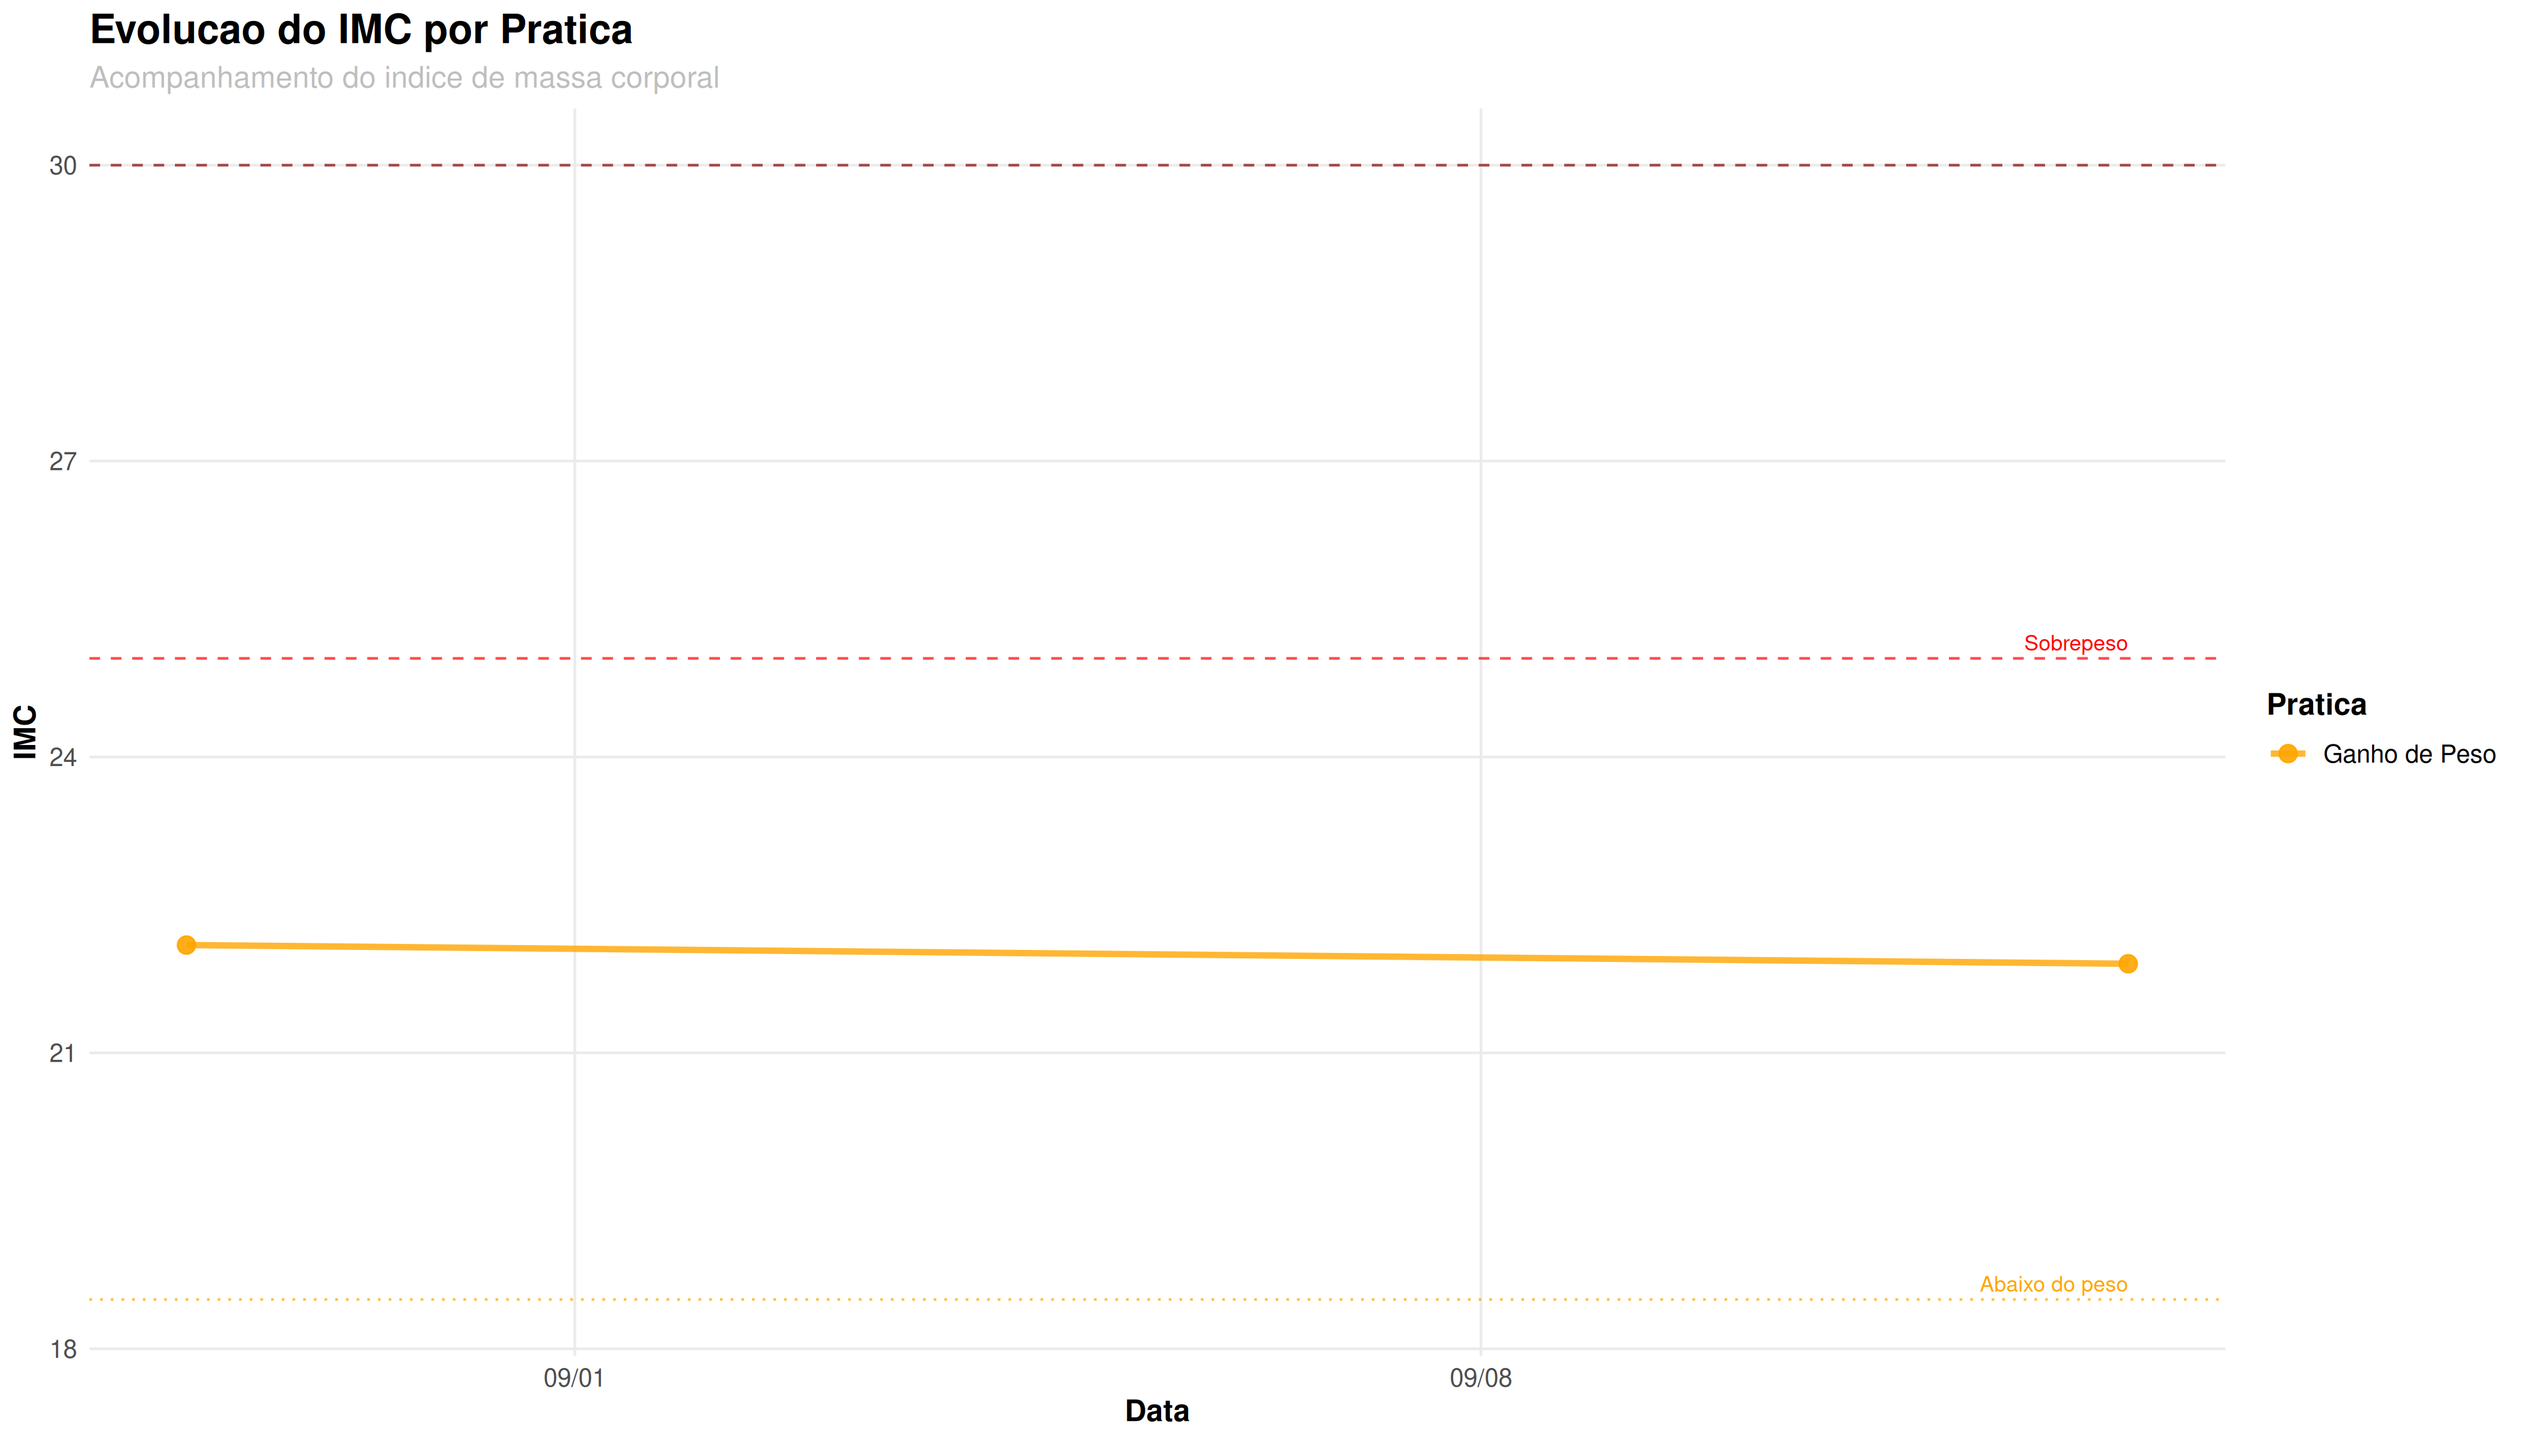
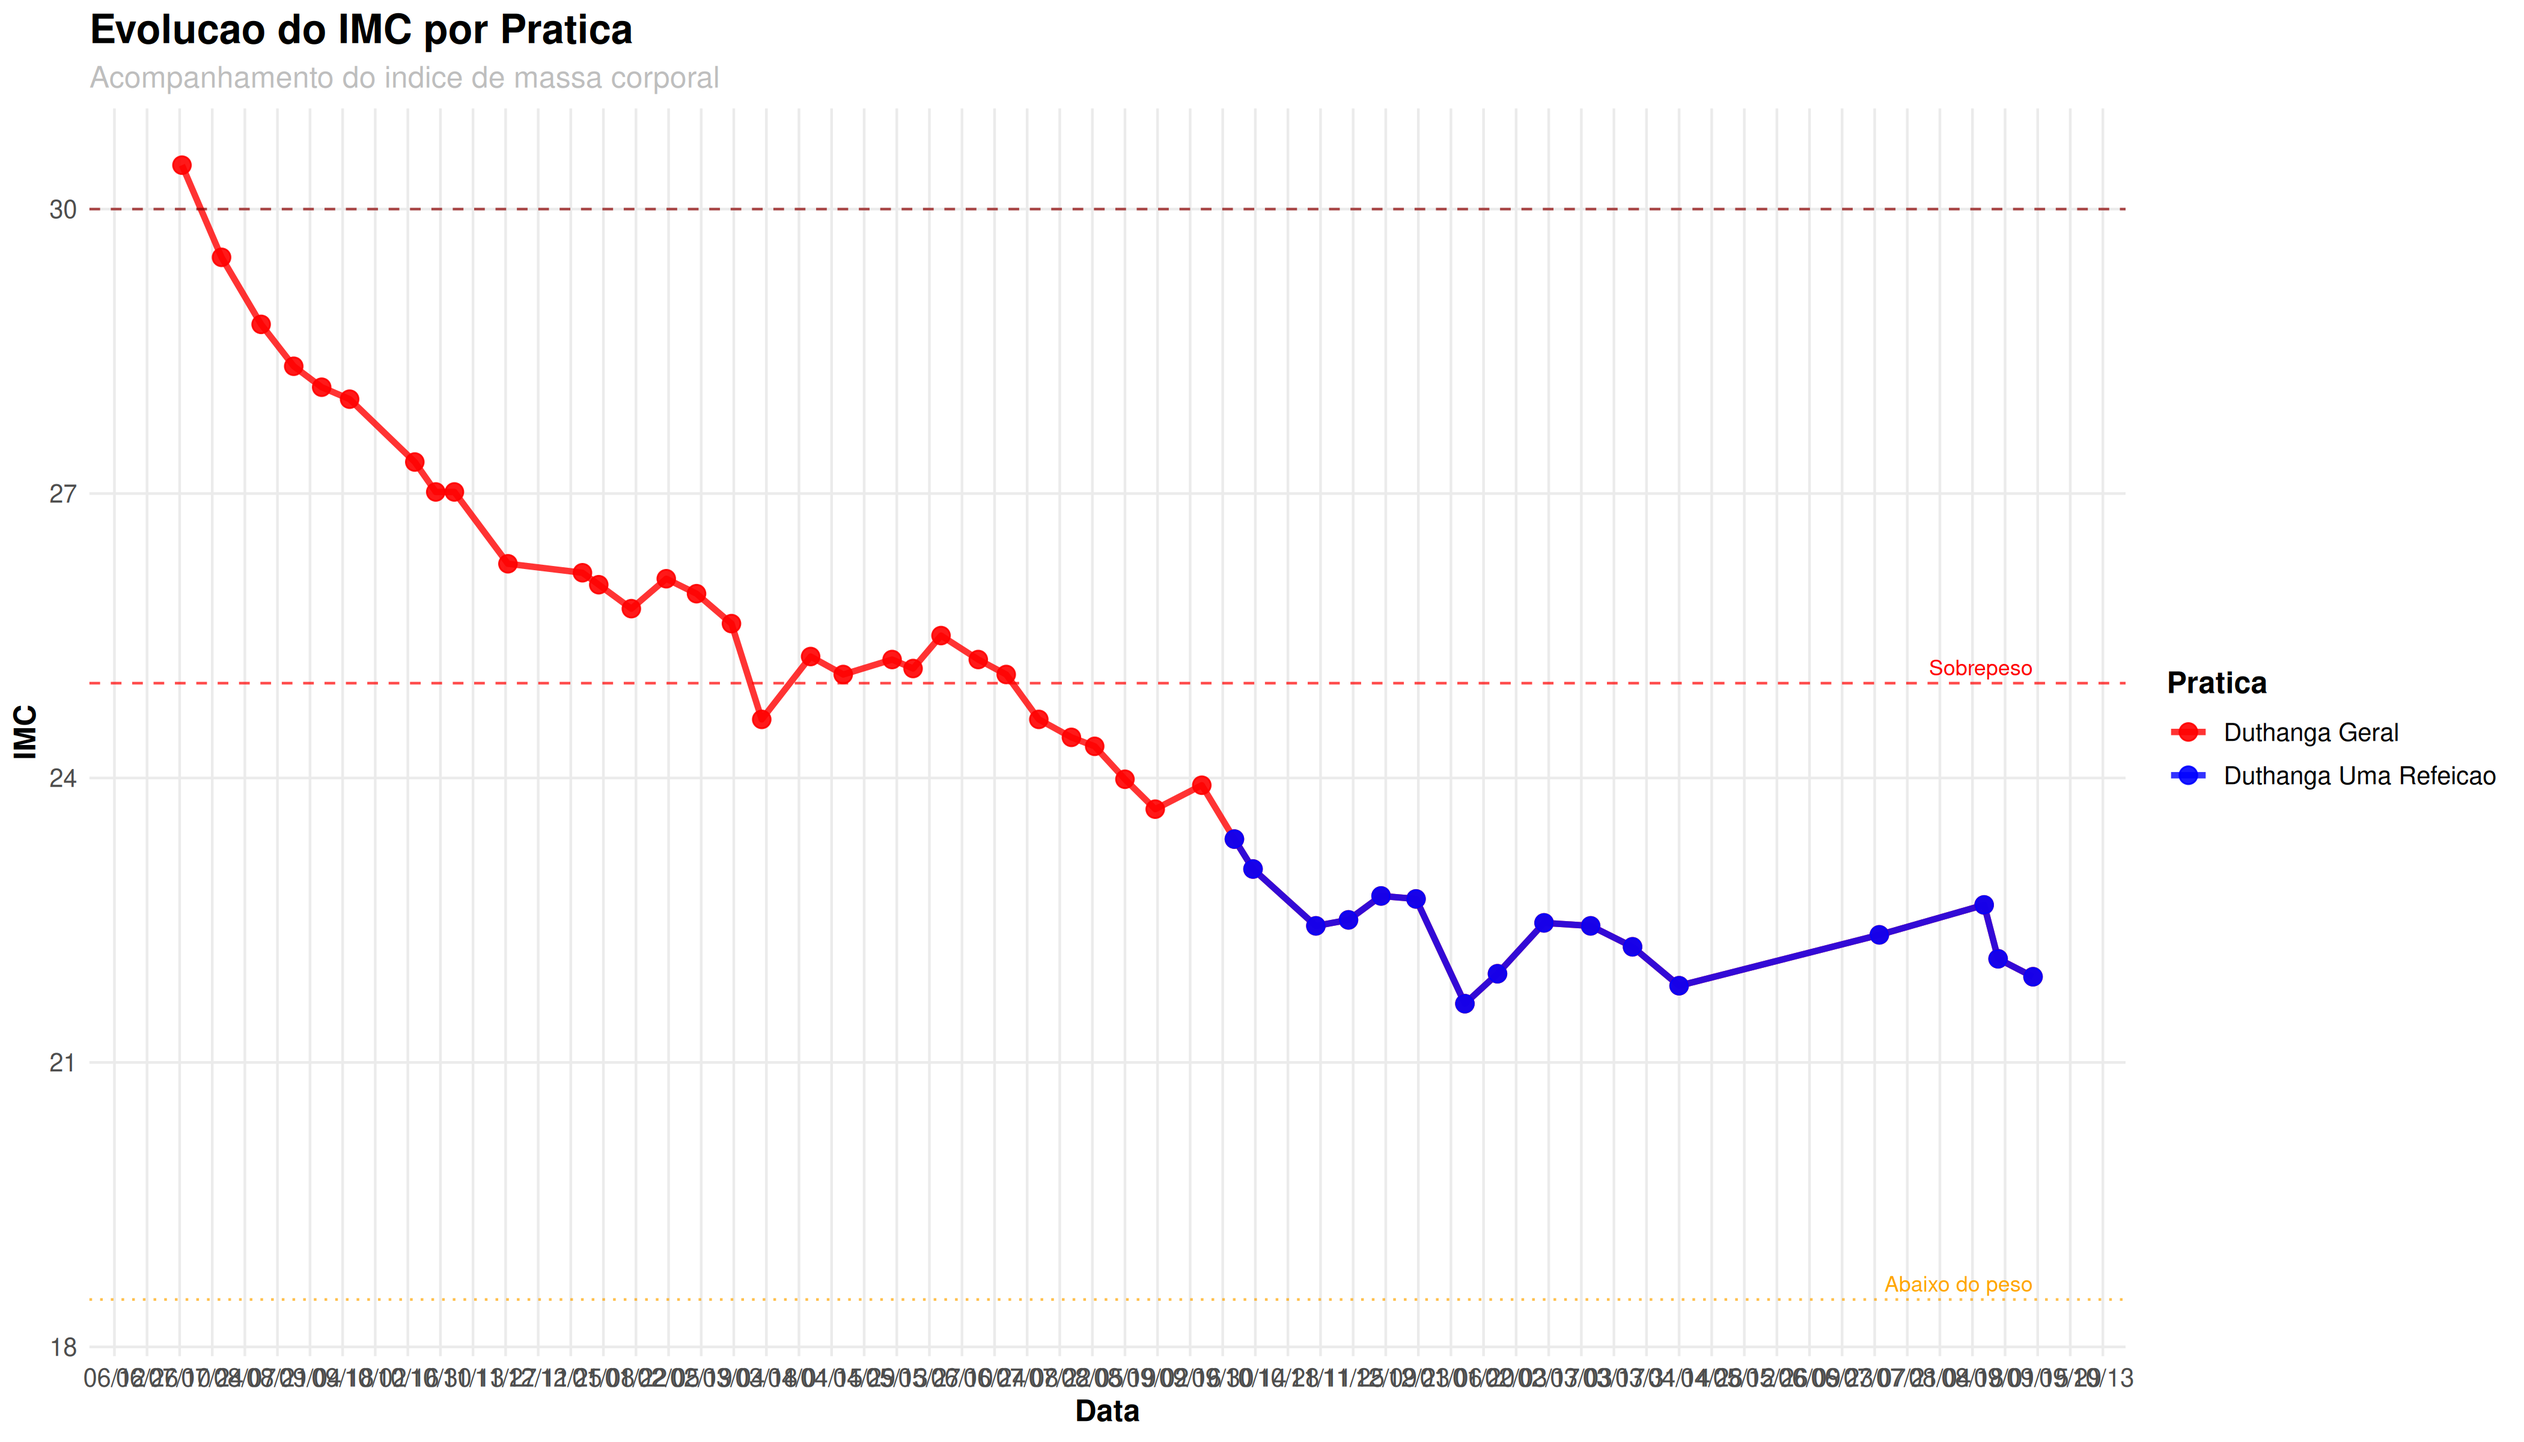
Atualização automática dos gráficos - 2025-09-27 09:17

diff --git a/charts/complete_table.html b/charts/complete_table.html
@@ -1,1 +1,1 @@
-<p class='text-muted'>Nenhum dado disponivel ainda. Dados serao carregados na proxima atualizacao.</p>
+<div class="table-responsive"><table class="table table-striped table-hover" id="complete-data-table"><thead class="table-dark"><tr><th>Data</th><th>Horario</th><th>Peso (kg)</th><th>Braco (cm)</th><th>Cintura (cm)</th><th>Quadril (cm)</th><th>Panturrilha (cm)</th><th>IMC</th><th>Pratica</th></tr></thead><tbody><tr><td>13/09/2025</td><td>-</td><td>69.4</td><td>32.0</td><td>85.0</td><td>92.0</td><td>33.5</td><td>21.9</td><td><span class="badge bg-primary">Duthanga Geral</span></td></tr><tr><td>29/08/2025</td><td>-</td><td>70.0</td><td>31.0</td><td>84.5</td><td>91.0</td><td>33.0</td><td>22.1</td><td><span class="badge bg-primary">Duthanga Geral</span></td></tr><tr><td>23/08/2025</td><td>-</td><td>71.8</td><td>20250530.0</td><td>86.0</td><td>92.0</td><td>33.5</td><td>22.7</td><td><span class="badge bg-primary">Duthanga Geral</span></td></tr><tr><td>09/07/2025</td><td>-</td><td>70.8</td><td>32.5</td><td>85.5</td><td>90.5</td><td>33.0</td><td>22.3</td><td><span class="badge bg-primary">Duthanga Geral</span></td></tr><tr><td>14/04/2025</td><td>-</td><td>69.1</td><td>31.0</td><td>83.0</td><td>91.0</td><td>33.5</td><td>21.8</td><td><span class="badge bg-primary">Duthanga Geral</span></td></tr><tr><td>25/03/2025</td><td>-</td><td>70.4</td><td>32.0</td><td>83.0</td><td>92.0</td><td>33.5</td><td>22.2</td><td><span class="badge bg-primary">Duthanga Geral</span></td></tr><tr><td>07/03/2025</td><td>-</td><td>71.1</td><td>31.0</td><td>84.0</td><td>91.5</td><td>33.5</td><td>22.4</td><td><span class="badge bg-primary">Duthanga Geral</span></td></tr><tr><td>15/02/2025</td><td>-</td><td>71.2</td><td>20250531.0</td><td>85.0</td><td>91.5</td><td>33.5</td><td>22.5</td><td><span class="badge bg-primary">Duthanga Geral</span></td></tr><tr><td>26/01/2025</td><td>-</td><td>69.5</td><td>20250531.0</td><td>84.5</td><td>92.5</td><td>34.0</td><td>21.9</td><td><span class="badge bg-primary">Duthanga Geral</span></td></tr><tr><td>12/01/2025</td><td>-</td><td>68.5</td><td>31.0</td><td>84.5</td><td>92.0</td><td>34.5</td><td>21.6</td><td><span class="badge bg-primary">Duthanga Geral</span></td></tr><tr><td>22/12/2024</td><td>-</td><td>72.0</td><td>20240531.0</td><td>85.5</td><td>92.0</td><td>33.5</td><td>22.7</td><td><span class="badge bg-primary">Duthanga Geral</span></td></tr><tr><td>07/12/2024</td><td>-</td><td>72.1</td><td>31.0</td><td>84.5</td><td>91.5</td><td>34.0</td><td>22.8</td><td><span class="badge bg-primary">Duthanga Geral</span></td></tr><tr><td>23/11/2024</td><td>-</td><td>71.3</td><td>32.5</td><td>86.0</td><td>91.0</td><td>33.5</td><td>22.5</td><td><span class="badge bg-primary">Duthanga Geral</span></td></tr><tr><td>09/11/2024</td><td>-</td><td>71.1</td><td>33.0</td><td>86.5</td><td>92.0</td><td>34.0</td><td>22.4</td><td><span class="badge bg-primary">Duthanga Geral</span></td></tr><tr><td>13/10/2024</td><td>-</td><td>73.0</td><td>32.5</td><td>88.0</td><td>94.0</td><td>33.5</td><td>23</td><td><span class="badge bg-primary">Duthanga Geral</span></td></tr><tr><td>05/10/2024</td><td>-</td><td>74.0</td><td>33.0</td><td>89.0</td><td>94.5</td><td>34.0</td><td>23.4</td><td><span class="badge bg-primary">Duthanga Geral</span></td></tr><tr><td>21/09/2024</td><td>-</td><td>75.8</td><td>33.0</td><td>89.5</td><td>94.5</td><td>34.0</td><td>23.9</td><td><span class="badge bg-primary">Duthanga Geral</span></td></tr><tr><td>01/09/2024</td><td>-</td><td>75.0</td><td>35.0</td><td>90.0</td><td>95.5</td><td>34.5</td><td>23.7</td><td><span class="badge bg-primary">Duthanga Geral</span></td></tr><tr><td>19/08/2024</td><td>-</td><td>76.0</td><td>34.5</td><td>90.0</td><td>94.5</td><td>34.5</td><td>24</td><td><span class="badge bg-primary">Duthanga Geral</span></td></tr><tr><td>06/08/2024</td><td>-</td><td>77.1</td><td>36.0</td><td>91.0</td><td>95.5</td><td>35.0</td><td>24.3</td><td><span class="badge bg-primary">Duthanga Geral</span></td></tr><tr><td>27/07/2024</td><td>-</td><td>77.4</td><td>34.0</td><td>90.0</td><td>96.5</td><td>35.0</td><td>24.4</td><td><span class="badge bg-primary">Duthanga Geral</span></td></tr><tr><td>13/07/2024</td><td>-</td><td>78.0</td><td>34.0</td><td>90.5</td><td>97.0</td><td>35.5</td><td>24.6</td><td><span class="badge bg-primary">Duthanga Geral</span></td></tr><tr><td>29/06/2024</td><td>-</td><td>79.5</td><td>34.5</td><td>92.5</td><td>96.0</td><td>35.5</td><td>25.1</td><td><span class="badge bg-primary">Duthanga Geral</span></td></tr><tr><td>17/06/2024</td><td>-</td><td>80.0</td><td>35.0</td><td>92.0</td><td>96.0</td><td>35.0</td><td>25.2</td><td><span class="badge bg-primary">Duthanga Geral</span></td></tr><tr><td>01/06/2024</td><td>-</td><td>80.8</td><td>36.0</td><td>91.0</td><td>96.5</td><td>36.0</td><td>25.5</td><td><span class="badge bg-primary">Duthanga Geral</span></td></tr><tr><td>20/05/2024</td><td>-</td><td>79.7</td><td>36.0</td><td>94.0</td><td>96.0</td><td>35.0</td><td>25.2</td><td><span class="badge bg-primary">Duthanga Geral</span></td></tr><tr><td>11/05/2024</td><td>-</td><td>80.0</td><td>34.0</td><td>94.0</td><td>97.0</td><td>35.0</td><td>25.2</td><td><span class="badge bg-primary">Duthanga Geral</span></td></tr><tr><td>20/04/2024</td><td>-</td><td>79.5</td><td>35.0</td><td>94.0</td><td>98.0</td><td>35.0</td><td>25.1</td><td><span class="badge bg-primary">Duthanga Geral</span></td></tr><tr><td>06/04/2024</td><td>-</td><td>80.1</td><td>35.0</td><td>93.5</td><td>96.0</td><td>35.0</td><td>25.3</td><td><span class="badge bg-primary">Duthanga Geral</span></td></tr><tr><td>16/03/2024</td><td>-</td><td>78.0</td><td>35.0</td><td>92.0</td><td>96.0</td><td>34.0</td><td>24.6</td><td><span class="badge bg-primary">Duthanga Geral</span></td></tr><tr><td>03/03/2024</td><td>-</td><td>81.2</td><td>34.0</td><td>94.0</td><td>96.0</td><td>35.0</td><td>25.6</td><td><span class="badge bg-primary">Duthanga Geral</span></td></tr><tr><td>17/02/2024</td><td>-</td><td>82.2</td><td>33.5</td><td>94.0</td><td>97.0</td><td>35.0</td><td>25.9</td><td><span class="badge bg-primary">Duthanga Geral</span></td></tr><tr><td>04/02/2024</td><td>-</td><td>82.7</td><td>34.0</td><td>95.5</td><td>97.0</td><td>35.0</td><td>26.1</td><td><span class="badge bg-primary">Duthanga Geral</span></td></tr><tr><td>20/01/2024</td><td>-</td><td>81.7</td><td>35.0</td><td>96.0</td><td>96.0</td><td>35.0</td><td>25.8</td><td><span class="badge bg-primary">Duthanga Geral</span></td></tr><tr><td>06/01/2024</td><td>-</td><td>82.5</td><td>35.0</td><td>95.0</td><td>98.0</td><td>35.0</td><td>26</td><td><span class="badge bg-primary">Duthanga Geral</span></td></tr><tr><td>30/12/2023</td><td>-</td><td>82.9</td><td>35.0</td><td>95.5</td><td>98.0</td><td>35.5</td><td>26.2</td><td><span class="badge bg-primary">Duthanga Geral</span></td></tr><tr><td>28/11/2023</td><td>-</td><td>83.2</td><td>35.0</td><td>99.0</td><td>99.5</td><td>35.0</td><td>26.3</td><td><span class="badge bg-primary">Duthanga Geral</span></td></tr><tr><td>05/11/2023</td><td>-</td><td>85.6</td><td>35.5</td><td>98.5</td><td>99.0</td><td>35.0</td><td>27</td><td><span class="badge bg-primary">Duthanga Geral</span></td></tr><tr><td>28/10/2023</td><td>-</td><td>85.6</td><td>36.0</td><td>98.8</td><td>99.0</td><td>35.0</td><td>27</td><td><span class="badge bg-primary">Duthanga Geral</span></td></tr><tr><td>19/10/2023</td><td>-</td><td>86.6</td><td>36.0</td><td>99.0</td><td>100.0</td><td>36.0</td><td>27.3</td><td><span class="badge bg-primary">Duthanga Geral</span></td></tr><tr><td>21/09/2023</td><td>-</td><td>88.7</td><td>35.5</td><td>99.5</td><td>101.0</td><td>34.5</td><td>28</td><td><span class="badge bg-primary">Duthanga Geral</span></td></tr><tr><td>09/09/2023</td><td>-</td><td>89.1</td><td>35.0</td><td>100.0</td><td>102.0</td><td>35.0</td><td>28.1</td><td><span class="badge bg-primary">Duthanga Geral</span></td></tr><tr><td>28/08/2023</td><td>-</td><td>89.8</td><td>35.5</td><td>100.5</td><td>101.0</td><td>36.0</td><td>28.3</td><td><span class="badge bg-primary">Duthanga Geral</span></td></tr><tr><td>14/08/2023</td><td>-</td><td>91.2</td><td>35.5</td><td>99.0</td><td>103.0</td><td>36.0</td><td>28.8</td><td><span class="badge bg-primary">Duthanga Geral</span></td></tr><tr><td>28/07/2023</td><td>-</td><td>93.4</td><td>35.5</td><td>100.0</td><td>105.0</td><td>36.0</td><td>29.5</td><td><span class="badge bg-primary">Duthanga Geral</span></td></tr><tr><td>11/07/2023</td><td>-</td><td>96.5</td><td>36.0</td><td>101.5</td><td>104.0</td><td>37.0</td><td>30.5</td><td><span class="badge bg-primary">Duthanga Geral</span></td></tr></tbody></table></div>
